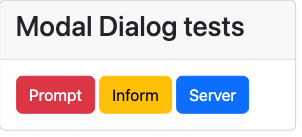
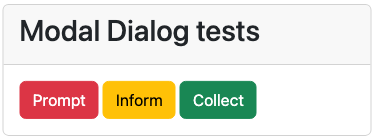
Finished documenting the Langing Page

Changed region(s): [[0.0298, 0.5255, 0.8344, 0.8759], [0.0, 0.0, 1.0, 0.9927], [0.0298, 0.1168, 0.8046, 0.3504]]

diff --git a/views/index.html b/views/index.html
@@ -20,8 +20,8 @@
 		</div>
 		<div class="card-body">
 			<button type="button" class="btn btn-danger" hx-get="/promptModal" hx-target="#htmx-browser-dialog-container">Prompt</button>
-			<button type="button" class="btn btn-warning" hx-get="/informModal" hx-target="#htmx-browser-dialog-container">Browser</button>
-			<button type="button" class="btn btn-success" hx-get="/serverModal" hx-target="#htmx-server-dialog-container">Collect</button>
+			<button type="button" class="btn btn-warning" hx-get="/informModal" hx-target="#htmx-browser-dialog-container">Inform</button>
+			<button type="button" class="btn btn-success" hx-get="/collectModal" hx-target="#htmx-server-dialog-container">Collect</button>
 		</div>
 	</div>
      <script src="https://cdn.jsdelivr.net/npm/htmx.org@2.0.8/dist/htmx.min.js" integrity="sha384-/TgkGk7p307TH7EXJDuUlgG3Ce1UVolAOFopFekQkkXihi5u/6OCvVKyz1W+idaz" crossorigin="anonymous"></script>

diff --git a/README.md b/README.md
@@ -1,30 +1,131 @@
-# Abstract
+# Abstract and Acknowlegemens
+I decided to build a mobile-first SaaS enterprise resourse planning application. The mobile-first requirement imposed two constraints. One, I'm not inclined to build at least two native applications, or spend money with frameworks that support it. Second, a webapp running on a phone must be stingy with resource utilization to prevent performance degradation.
+
+This lead me to architect a solution with a minimal Browser footprint, using [Go](https://go.dev/) as the server engine and [Fiber](https://gofiber.io/) as the HTTP server. This led me to leveraging [Go HTML Templates](https://pkg.go.dev/html/template) in conjunction with the [Fiber Template Engine](https://docs.gofiber.io/template/html_v2.x.x/html/) to collaborate with [HTMX](https://htmx.org/) and [HyperScript](https://hyperscript.org/) to manipulate the DOM Tree on the Client.
+
+Shortly into my work, I was challenged how to implement `Modal Dialogs` issued by the server, as for instance, to inform the guest they do not have the authortizarion to access a resource. The excellent article [Two ways to build HTML dialogs using HTMX and HyperScript](https://medium.com/@martin.mohnhaupt/two-ways-to-build-html-dialogs-using-htmx-and-hyperscript-5f5eefb13c4c) by [Martin Mohnhaupt](https://medium.com/@martin.mohnhaupt) has been instrumental to aid me in thinking about and implementing `Modal Dialogs` in my webapp. 
+
 This repository introduces two different methods to display `Modal Dialogs`, `Browser Modal Dialog` and `Server Modal Dialog`. A _Modal Dialog_ is a pop-up window that appears on top of the current browser page, requiring user interaction before the user can return to the main content. It is commonly used to request confirmation to proceed with a destructive opperation, notify the user of a relevant application state, or collect required information from the user. We use _Browser Modal Dialogs_ to prompt the user to confirm an action, such as deleting a record, and _Server Modal Dialogs_ to either inform the user about the result of an operation, like lack of authorization for access a resource-- or to collected addition data, like a phone number.
 
-We will demonstrate our approach using a simple web applications with a technology stack consisting of  [Go](https://go.dev/), [Fiber](https://gofiber.io/),  and the [Fiber Template Engine](https://docs.gofiber.io/template/html_v2.x.x/html/) on the Server, and [Bootstrap 5](https://getbootstrap.com/) , [HTMX](https://htmx.org/) and [HyperScript](https://hyperscript.org/) to manipulate the DOM Tree on the Client. This technology stack requires the Server to serve HTML, whereas other stacks use JSON requiring more complex technology stack on the Client. Deceivingly, both examples
-
+I will demonstrate Martin's approach, refactored to suit my requirements, using a simple web application with a technology stack consisting of  [Go](https://go.dev/), [Fiber](https://gofiber.io/),  and the [Fiber Template Engine](https://docs.gofiber.io/template/html_v2.x.x/html/) on the Server, and [Bootstrap 5](https://getbootstrap.com/) , [HTMX](https://htmx.org/) and [HyperScript](https://hyperscript.org/) to manipulate the DOM Tree on the Client. This technology stack requires the Server to serve HTML, whereas other stacks use JSON requiring more complex technology stack on the Client; it also provides the software engineer with strategist to define precise places in the `DOM Tree`, as well as to decorate some of the DOM Tree elements with event handling instructions. 
 Note that:
 - I'll use the term `Server`, to refer to the `Go/Fiber` HTTP server;
 - I'll use the term `Template`,to refer to the `GoFiber Template` engine;
 - I'll use the term `Client`, to refer to the [HTMX](https://htmx.org/) and [HyperScript](https://hyperscript.org/) logic to handle the Templates returned by the _Server_ and hostedf by any **modern** browser;
 - I'll use the term `webapp`, to refer to the web application consisting of the _Client_ and _Server_ mentioned above;
 
-# A Word About our Webapp Demo
+You can find the full implemention at [this repo](https://github.com/RodrigoMattosoSilveira/html_htmx-modal_dialogs) on [my github account](https://github.com/RodrigoMattosoSilveira).
+
+# A Word About the Webapp Demo
 Web applications using complex Client technology stacks, such as [React](https://react.dev/) and its vast constellation of addons, can handle the logic to triger, display, and manage _Modal Dialogs_  with minimal Server interaction. 
 
-Our _webapp_ uses a significantly simpler Client technology stack, [HTMX](https://htmx.org/) and [HyperScript](https://hyperscript.org/) to manipulate the DOM Tree, with a limited use of Javascript. Instead of relying on JSON payload and complex logic to express the User Experience, it relys on fully rendered HTL 
+This _webapp_ uses a significantly simpler Client technology stack, [HTMX](https://htmx.org/) and [HyperScript](https://hyperscript.org/) to manipulate the DOM Tree, with a limited use of Javascript. Instead of relying on JSON payload and complex logic to express the User Experience, it relys on fully rendered HTL 
 
-The _Landing Page_ includes 3 buttons,  `Prompt`, `Inform`, and `Collect`. Note that all 3 include logic requiring the Client to request the Server to provide their HTML, and that this logic is decoupled of the _Modal Dialogs_ in of themselves. 
+The _Landing Page_ includes 3 buttons,  `Prompt`, `Inform`, and `Collect`. Note that all 3 include logic requiring the _Client_ to request the Server to provide their _HTML_, and that this logic is decoupled of the _Modal Dialogs_ in of themselves. 
 
 The _Prompt_ buttton triggers a _Modal Dialog_ requiring a guest action to confirm an operation, or dismiss the dialog; this is a _Browser_ _Modal Dialog_. The _Inform_ buttton triggers a _Modal Dialog_ informing the guest about a Server state, without requiring any addition action other than dismiss the dialog; this is a _Server_ _Modal Dialog_. The _Collect_ buttton triggers a _Modal Dialog_ asking the guest to provide a data element, or dismiss the dialog; this is a more complex _Server_ _Modal Dialog_.
 
 # Use Cases
-A use case is a detailed description of how a user interacts with a system to achieve a specific goal. Although ouors are relatively simple, I included them here since I wrote and used them to implement the webapp, and thought they would help me explaning the webapp. Following are the use cases for our webapp, which I'll refer throughout this document:
-## Setup
+A use case is a detailed description of how a user interacts with a system to achieve a specific goal. Although ours are relatively simple, I included them here since I wrote and used them to implement the webapp, and thought they would help me explaning the webapp. Following are the use cases for our webapp, including the logic I used to implemenet them:
+## Launch Webapp
 1. **Setup Server**: I, as a guest, when I launch the _Server_, I want to see the _Fiber_ log incating that its ready to handle _HTTP_ requests;
 1. **Setup Client**: I, as a guest, when I launch the _Client_, after typing the server access URL, want to see the _Landing Page_ consisting of a UI element named `Modal Dialog Tests`, inclulding two buttons, `Prompt`, `Inform`, and `Collect`;
 
-![Local Image](uml/useCases/setup.png)
+![Local Image](uml/useCases/webappLaunch.png)
+
+<sub>Launch Webapp</sub>
+
+### The Server Logic
+``` go
+package main
+
+import (
+	"log"
+
+	"github.com/gofiber/fiber/v2"
+	"github.com/gofiber/template/html/v2"
+)
+
+func main() {
+	// Set up the HTML template engine
+	engine := html.New("./views", ".html")
+
+	// Create a new Fiber app with the template engine
+	app := fiber.New(fiber.Config{
+		Views: engine,
+	})
+
+	// Route to render the Landing Page
+	app.Get("/", func(c *fiber.Ctx) error {
+		log.Println("Route to render the Landing Page")
+		return c.Render("index", nil)
+	})
+
+	// Route Management logic omitted ... 
+
+	// Start the server
+	app.Listen(":3000")
+}
+```
+Notes:
+- The command `engine := html.New("./views", ".html")` configures the `GO HTML Template` engine to look for its `HTML fragments` in the `./views` folder and using the `.html` extention;
+- The command `	app := fiber.New(fiber.Confi{Views: engine,})` configures `Fiber` as the webapp's HTTP server using its Template engine;
+- The following command:
+  - Sets up the `Landing Page` route to `/`;
+  - Logs the event;
+  - Renders the `Landing Page` using the `./views/index.html` HTML fragment;
+  - Returns the `Landing Page` to the Client;
+``` go
+	app.Get("/", func(c *fiber.Ctx) error {
+		log.Println("Route to render the Landing Page")
+		return c.Render("index", nil)
+	})
+```
+- The command `	app.Listen(":3000")` configures the HTTP Server, Fiber, to listen on port 3000;
+- 
+### The Landing Page HTML Fragment
+I'll focus on the markup required to render the Landing Page, ommiting everything else, given our focus on the Modal Dialogs and the logic to publish, use, and handle them:
+``` html
+<!DOCTYPE html>
+<html lang="en">
+<head>
+   <!-- Ommited CSS, see github for details-->
+</head>
+<body>
+    <!-- Browser initiated dialog placeholder -->
+    <div id="htmx-browser-dialog-container"></div>
+
+    <!-- Server initiated dialog placeholder -->
+    <div id="htmx-server-dialog-container" _="on dialog_event from body put detail.value into me"></div>
+    
+	<!--div class="d-flex aligns-items-center justify-content-center card text-center w-75 mx-auto"></div-->
+	<div class="card d-flex aligns-items-center justify-content-centertext-center w-75 position-absolute top-50 start-50 translate-middle">
+    	<div class="card-header">
+   			<h1>Modal Dialog tests</h1>
+		</div>
+		<div class="card-body">
+			<button type="button" class="btn btn-danger" hx-get="/promptModal" hx-target="#htmx-browser-dialog-container">Prompt</button>
+			<button type="button" class="btn btn-warning" hx-get="/informModal" hx-target="#htmx-browser-dialog-container">Inform</button>
+			<button type="button" class="btn btn-success" hx-get="/collectModal" hx-target="#htmx-server-dialog-container">Collect</button>
+		</div>
+	</div>
+	<!--  Omitted scrips, see github for details -->
+  </body>
+</html>
+```
+Notes:
+- The architure requires that I use two different landing regions for the _Modal Dialogs_, depending on their nature (it took me a long timne to find an example that made a working distinction). I use ` <div id="htmx-browser-dialog-container">` to host _Browser Modal Dialogs_ and ` <div id="htmx-server-dialog-container">` to host _Server Modal Dialogs_; the the discussion below for the strategy to place them at these elements;
+- I used a [Bootstrap Card](https://getbootstrap.com/docs/5.3/components/card/) to help build this responsive user experience expeditiously;
+- The heart of the User Experience logic reside in the elment `<div class="card-body">`, consisting of three buttons:
+  - ` hx-get="/promptModal"` - Triggers the _Server_ to render a _Browser Modal Dialog_, prompting the guest to either proceed or abandon a dangerous operation;
+  - ` hx-get="/informModal"` - Triggers the _Server_ to render a _Server Modal Dialog_, informing the guest about a system state, like an attempt on the guest's part to access an unauthorized resource;
+  -   - ` hx-get="/collectModal"` - Triggers the _Server_ to render a _Server Modal Dialog_, prompting the guest to provide data;
+  -   
+### The Rendered Langing Page
+
+![Local Image](images/LandingPage.png)
+
+<sub>Landing Page</sub>
 
 ## Prompt Modal Dialog
 1. **Show Prompt Modal Dialog**: I, as a guest, when at the _Landing Page_, want to clik on the _Prompt_ button and observe a _Modal Dialog_ response, consisting of: i. a _Header_ informing me of an _Action Required_, e.g., _Action Required_, ii. a body with details about the required action, e.g, _Please confirm your choice to DELETE this record, or click x to dismiss_, and iii. a _Footer_ with a _Primary / Danger_ button with the text _Confirm_;
@@ -53,26 +154,30 @@ A use case is a detailed description of how a user interacts with a system to ac
 
 ![Local Image](uml/useCases/collectModalDialog.png)
 
-## Architecture
+## Implementation
+I'll mix sequence diagrams with text and software logic to explain the implementation.
 The best way me to describe it is thru a few architecture diagrams depicting the main technology elements supporting the use case
 
 ### Setup Client/Server
-This amounts to building and launching he Go/Fiber HTTP Server, which I'll describe below, as well as launching the HTTP client--any browser will do;
+This amounts to building and launching he Go/Fiber HTTP Server, which I'll describe below, as well as launching the HTTP client--any browser will do.
 
-### Launching the Application
+### Launch 
+Webapp
 
 ![Local Image](uml/sequenceDiagrams/LaunchApplication.png)
 
 <sub>Launch Sequence Diagram</sub>
 
-In addition to addressing the _Setup_ use cases 1 and 2, it also shows how our Client and Server technology stack components collaborate to handle HTTP requests/responses, as well as how Fiber collaborates with it Template to render a HTML fragment into the landing page.
+In addition to addressing the _Setup_ use cases 1 and 2, this sequence diagram also shows how our Client and Server technology stack components collaborate to handle HTTP requests/responses, as well as how Fiber collaborates with its Template to parser a HTML fragment into the landing page.
 
 ![Local Image](images/LandingPage.png)
+
+#### 
 
 <sub>Landing Page</sub>
 
 
-### Show Browser Modal
+### Executing the Modal Dialog
 Now the Guest is ready to experiment with the browser triggered modal dialog:
 ![Local Image](uml/ShowBrowserModal.png)
 
